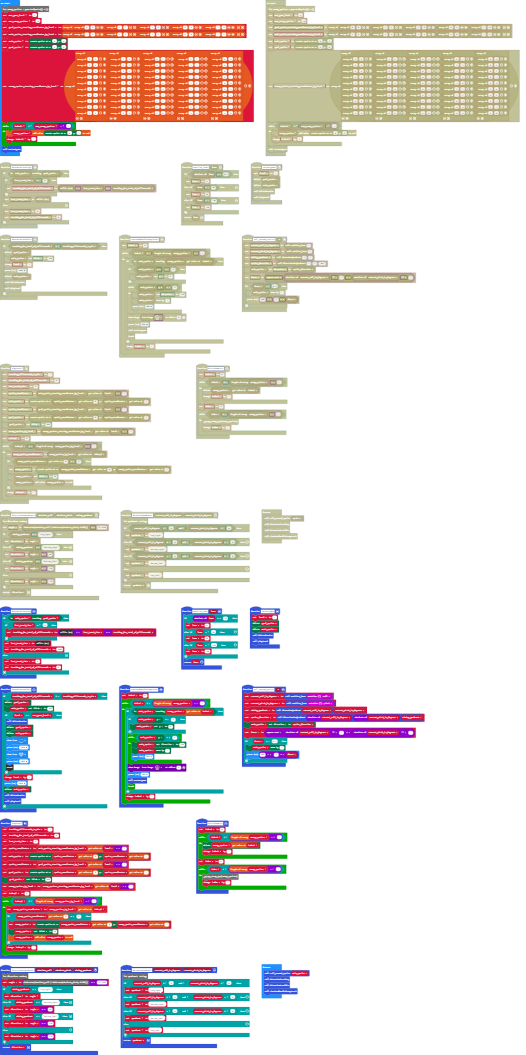
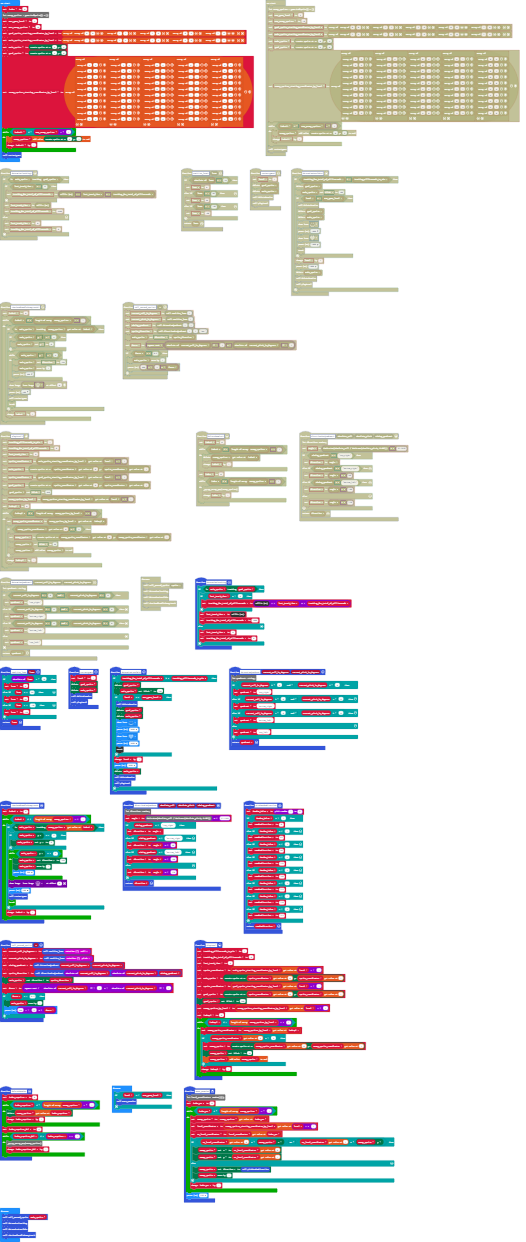
Working, with max level random enemy movement

diff --git a/main.ts b/main.ts
@@ -10,16 +10,37 @@ function determineTouching () {
         touching_for_total_of_milliseconds = 0
     }
 }
-function deleteEnemies () {
-    index3 = 0
-    while (index3 <= enemy_sprites.length - 1) {
-        enemy_sprites[index3].delete()
-        index3 += 1
+function pickRandomDirection () {
+    Random_Value = randint(1, 8)
+    if (Random_Value == 1) {
+        randomDirection = 0
+    } else if (Random_Value == 2) {
+        randomDirection = 45
+    } else if (Random_Value == 3) {
+        randomDirection = 90
+    } else if (Random_Value == 4) {
+        randomDirection = 135
+    } else if (Random_Value == 5) {
+        randomDirection = 180
+    } else if (Random_Value == 6) {
+        randomDirection = 225
+    } else if (Random_Value == 7) {
+        randomDirection = 270
+    } else if (Random_Value == 8) {
+        randomDirection = 315
     }
-    index = 0
-    while (index <= enemy_sprites.length - 1) {
+    return randomDirection
+}
+function deleteEnemies () {
+    index_esprites = 0
+    while (index_esprites <= enemy_sprites.length - 1) {
+        enemy_sprites[index_esprites].delete()
+        index_esprites += 1
+    }
+    index_esprites_del = 0
+    while (index_esprites_del <= index_esprites - 1) {
         _py.py_array_pop(enemy_sprites)
-index += 1
+index_esprites_del += 1
     }
 }
 function sanitize_lean (lean: number) {
@@ -140,6 +161,26 @@ angle = Math.atan(absolute_roll / Math.max(absolute_pitch, 0.001)) * 57.2958
     }
     return direction
 }
+function move_enemies () {
+    let level_coordinates: number[][];
+index_mv = 0
+    while (index_mv <= enemy_sprites.length - 1) {
+        enemy_sprite = enemy_sprites[index_mv]
+        level_coordinates = enemy_sprites_starting_coordinates_by_level[level - 1]
+        es_level_coordinates = level_coordinates[index_mv]
+        if (es_level_coordinates[0] != enemy_sprite.get(LedSpriteProperty.X) || es_level_coordinates[1] != enemy_sprite.get(LedSpriteProperty.Y)) {
+            enemy_sprite.set(LedSpriteProperty.X, es_level_coordinates[0])
+            enemy_sprite.set(LedSpriteProperty.Y, es_level_coordinates[1])
+        } else {
+            enemy_sprite.set(LedSpriteProperty.Direction, pickRandomDirection())
+            enemy_sprite.move(1)
+        }
+        index_mv += 1
+    }
+    basic.pause(520)
+}
+let es_level_coordinates: number[] = []
+let index_mv = 0
 let angle = 0
 let force = 0
 let sprite_direction = 0
@@ -155,8 +196,10 @@ let index2 = 0
 let touching_milliseconds_to_win = 0
 let level = 0
 let lean = 0
-let index = 0
-let index3 = 0
+let index_esprites_del = 0
+let index_esprites = 0
+let randomDirection = 0
+let Random_Value = 0
 let touching_for_total_of_milliseconds = 0
 let last_touch_time = 0
 let index22 = 0
@@ -166,6 +209,7 @@ let main_sprite: game.LedSprite = null
 let main_sprite_starting_coordinates_by_level: number[][] = []
 let goal_sprite_starting_coordinates_by_level: number[][] = []
 let max_game_level = 0
+let index = 0
 let enemy_sprites : game.LedSprite[] = []
 max_game_level = 5
 let max_enemy_sprites = 10
@@ -179,6 +223,11 @@ while (index22 <= max_enemy_sprites - 1) {
     index22 += 1
 }
 restartgame()
+basic.forever(function () {
+    if (level == max_game_level) {
+        move_enemies()
+    }
+})
 basic.forever(function () {
     roll_around_sprite(main_sprite)
     determineTouching()

diff --git a/main.py b/main.py
@@ -8,16 +8,36 @@ def determineTouching():
     else:
         last_touch_time = 0
         touching_for_total_of_milliseconds = 0
+def pickRandomDirection():
+    global Random_Value, randomDirection
+    Random_Value = randint(1, 8)
+    if Random_Value == 1:
+        randomDirection = 0
+    elif Random_Value == 2:
+        randomDirection = 45
+    elif Random_Value == 3:
+        randomDirection = 90
+    elif Random_Value == 4:
+        randomDirection = 135
+    elif Random_Value == 5:
+        randomDirection = 180
+    elif Random_Value == 6:
+        randomDirection = 225
+    elif Random_Value == 7:
+        randomDirection = 270
+    elif Random_Value == 8:
+        randomDirection = 315
+    return randomDirection
 def deleteEnemies():
-    global index3, index
-    index3 = 0
-    while index3 <= len(enemy_sprites) - 1:
-        enemy_sprites[index3].delete()
-        index3 += 1
-    index = 0
-    while index <= len(enemy_sprites) - 1:
+    global index_esprites, index_esprites_del
+    index_esprites = 0
+    while index_esprites <= len(enemy_sprites) - 1:
+        enemy_sprites[index_esprites].delete()
+        index_esprites += 1
+    index_esprites_del = 0
+    while index_esprites_del <= index_esprites - 1:
         enemy_sprites.pop()
-        index += 1
+        index_esprites_del += 1
 def sanitize_lean(lean: number):
     if abs(lean) < 10:
         lean = 0
@@ -39,6 +59,13 @@ def determineLevelWin():
         goal_sprite.delete()
         main_sprite.set(LedSpriteProperty.BLINK, 100)
         if level == max_game_level:
+            deleteEnemies()
+            goal_sprite.delete()
+            main_sprite.delete()
+            basic.show_icon(IconNames.HAPPY)
+            basic.pause(1000)
+            basic.show_icon(IconNames.HEART)
+            basic.pause(1000)
             control.reset()
         level += 1
         basic.pause(2000)
@@ -115,6 +142,23 @@ def directionForQuadrant(absolute_roll: number, absolute_pitch: number, aiming_q
     else:
         direction = angle + 270
     return direction
+def move_enemies():
+    global index_mv, enemy_sprite, es_level_coordinates
+    index_mv = 0
+    while index_mv <= len(enemy_sprites) - 1:
+        enemy_sprite = enemy_sprites[index_mv]
+        level_coordinates = enemy_sprites_starting_coordinates_by_level[level - 1]
+        es_level_coordinates = level_coordinates[index_mv]
+        if es_level_coordinates[0] != enemy_sprite.get(LedSpriteProperty.X) or es_level_coordinates[1] != enemy_sprite.get(LedSpriteProperty.Y):
+            enemy_sprite.set(LedSpriteProperty.X, es_level_coordinates[0])
+            enemy_sprite.set(LedSpriteProperty.Y, es_level_coordinates[1])
+        else:
+            enemy_sprite.set(LedSpriteProperty.DIRECTION, pickRandomDirection())
+            enemy_sprite.move(1)
+        index_mv += 1
+    basic.pause(520)
+es_level_coordinates: List[number] = []
+index_mv = 0
 angle = 0
 force = 0
 sprite_direction = 0
@@ -130,8 +174,10 @@ index2 = 0
 touching_milliseconds_to_win = 0
 level = 0
 lean = 0
-index = 0
-index3 = 0
+index_esprites_del = 0
+index_esprites = 0
+randomDirection = 0
+Random_Value = 0
 touching_for_total_of_milliseconds = 0
 last_touch_time = 0
 index22 = 0
@@ -140,7 +186,9 @@ goal_sprite: game.LedSprite = None
 main_sprite: game.LedSprite = None
 main_sprite_starting_coordinates_by_level: List[List[number]] = []
 goal_sprite_starting_coordinates_by_level: List[List[number]] = []
+max_game_level = 0
 enemy_sprites: List[game.LedSprite] = []
+index = 0
 max_game_level = 5
 max_enemy_sprites = 10
 goal_sprite_starting_coordinates_by_level = [[0, 0], [2, 2], [2, 0], [0, 4], [2, 0]]
@@ -203,8 +251,13 @@ while index22 <= max_enemy_sprites - 1:
 restartgame()
 
 def on_forever():
+    if level == max_game_level:
+        move_enemies()
+basic.forever(on_forever)
+
+def on_forever2():
     roll_around_sprite(main_sprite)
     determineTouching()
     determineLevelWin()
     checkandhandleEnemytouch()
-basic.forever(on_forever)
+basic.forever(on_forever2)
